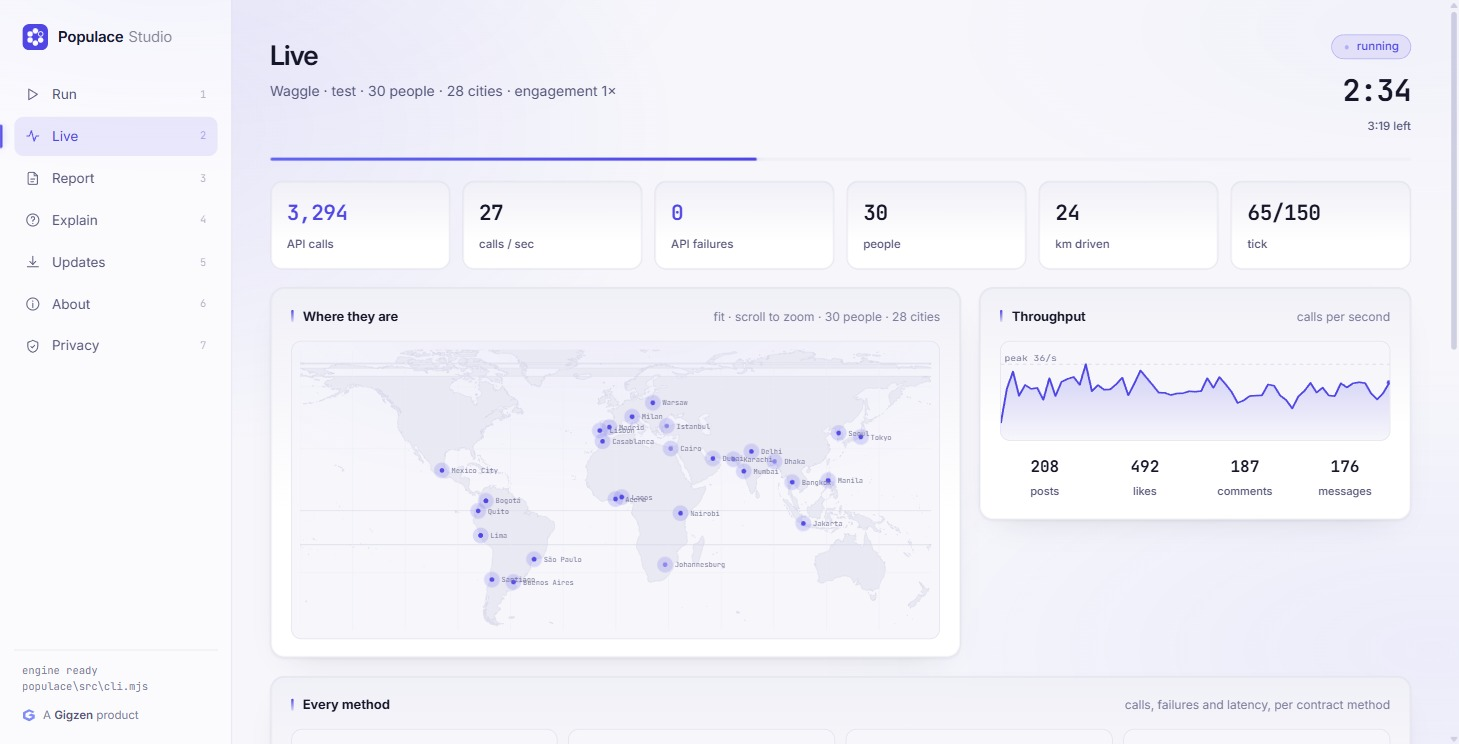
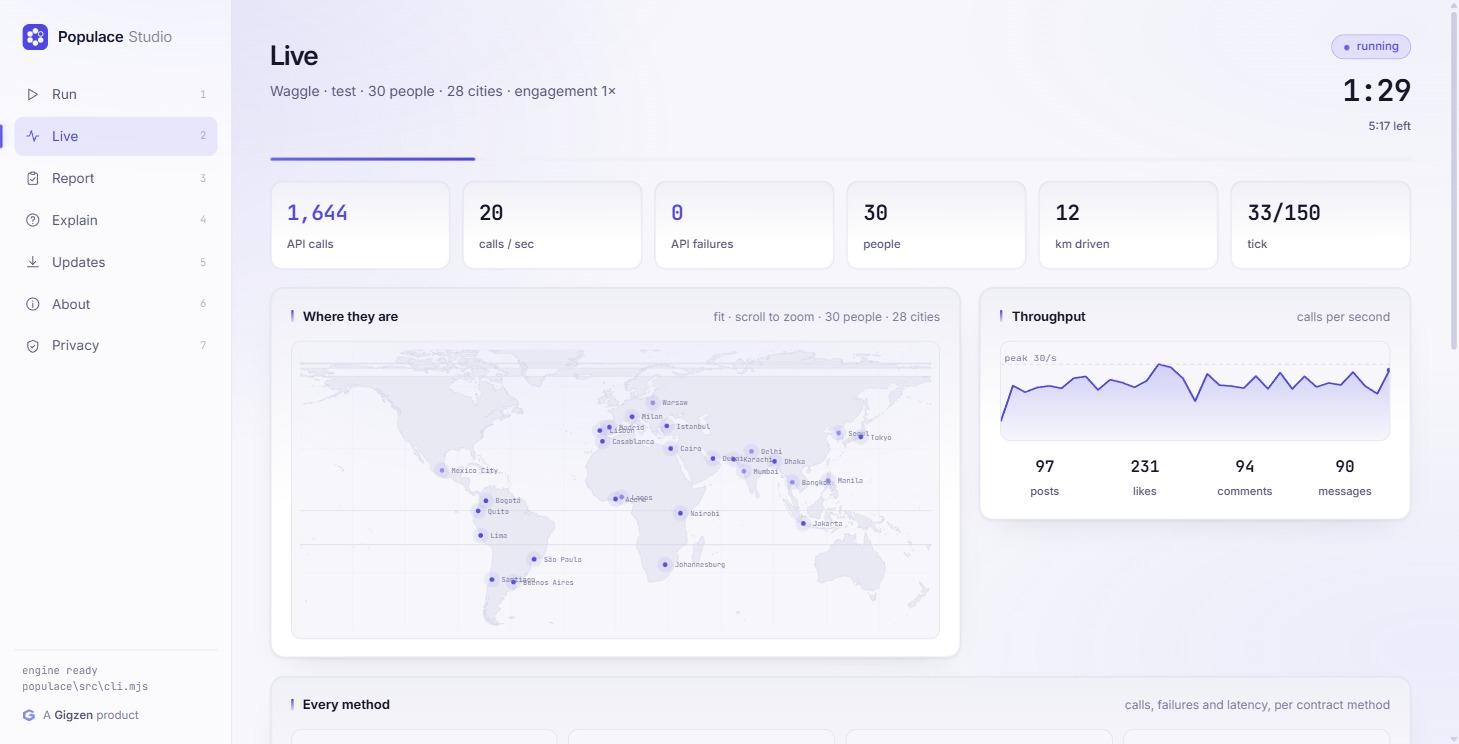
Report gets a clipboard, and the screenshots are taken again
The Report tab icon was a page with a folded corner, drawn to read at 64px
and used at 18px, where the fold and the clipped corner collapse into a
curl — it was being read as a scroll. It also said the wrong thing: a page
means a file exists, where that screen says whether the run was clean. It
is a clipboard with a tick now, checked at the size it is actually used
rather than in isolation.

That change is inside the binary, so the installers were rebuilt and both
SHA-256 sums here are new. The pair published earlier today are dead —
do not ship them.

It also invalidated both screenshots, which show the rail. Taken again
from one real run: thirty drivers across twenty-eight cities, 7,861 calls,
no failures, 13/13 coverage, thirty of thirty removed. The captions carry
this run's numbers, read off the pictures rather than off the script,
because the counters move between the read and the shutter.

The cities came from the Run screen's own Cities field, which exists for
exactly this, rather than by editing a config that is not mine to edit.

Still not for publishing until studio-v1.0.14 exists: the download buttons
point at releases/latest, so this page shipped early would claim 1.0.14
while handing people 1.0.13 under checksums that do not match.

diff --git a/docs/index.html b/docs/index.html
@@ -1216,7 +1216,7 @@ main,footer{position:relative; z-index:1}
              worked. -->
         <img class="shot" src="studio-live.jpg" width="1459" height="744" loading="lazy"
              alt="Populace Studio mid-run: thirty simulated drivers pinned across twenty-eight cities on a
-                  world map from Lima to Manila, 3,294 API calls at 27 a second with no failures, and
+                  world map from Lima to Manila, 1,644 API calls at 20 a second with no failures, and
                   counts of the posts, likes, comments and messages they have made.">
         <p style="font-size:13.5px; color:var(--muted); margin-top:10px; text-align:center">
           Thirty drivers across twenty-eight cities, driving Waggle through its own API.
@@ -1232,7 +1232,7 @@ main,footer{position:relative; z-index:1}
              and stays there: it is the only mention of it on this page. -->
         <img class="shot" src="studio-verdict.jpg" width="1459" height="744" loading="lazy"
              style="margin-top:22px"
-             alt="Populace Studio showing a finished run: a clean verdict over 7,671 API calls with no
+             alt="Populace Studio showing a finished run: a clean verdict over 7,861 API calls with no
                   failures, thirty of thirty accounts removed afterwards, and latency for every method
                   with its median and 95th percentile.">
         <p style="font-size:13.5px; color:var(--muted); margin-top:10px; text-align:center">
@@ -1261,8 +1261,8 @@ main,footer{position:relative; z-index:1}
         <pre style="margin:0 0 10px"><span class="cm"># PowerShell</span>
 Get-FileHash .\PopulaceStudio-Setup-x64.exe</pre>
         <p style="font-size:13.5px; font-family:var(--mono); color:var(--muted); word-break:break-all">
-          Setup <b style="color:var(--ink)">e126a3f7a2a25b560cb08fc73f708ede6d607630c52fbb958579c89ff1257073</b><br>
-          Portable <b style="color:var(--ink)">1a6cb43fe4a506f06f37974eb6cdaf990994057550d06e25590a87342b07f37c</b>
+          Setup <b style="color:var(--ink)">720546557ef23d32466b6872c741359064e7e51bc86b1278f60d0260c8e8c2b1</b><br>
+          Portable <b style="color:var(--ink)">51e5f0d6d93cc2afb796513ed6e0818f9ba78b9cc5d4b9742129a1150bdc57a3</b>
         </p>
       </div>
     </div>

diff --git a/studio/renderer/index.html b/studio/renderer/index.html
@@ -25,7 +25,7 @@
 
   <button class="tab is-on" data-screen="run"     type="button"><svg viewBox="0 0 24 24" aria-hidden="true"><path d="M6 4l13 8-13 8V4z"/></svg>Run<span class="k">1</span></button>
   <button class="tab"       data-screen="live"    type="button"><svg viewBox="0 0 24 24" aria-hidden="true"><path d="M3 12h4l3-8 4 16 3-8h4"/></svg>Live<span class="k">2</span></button>
-  <button class="tab"       data-screen="report"  type="button"><svg viewBox="0 0 24 24" aria-hidden="true"><path d="M14 3H7a2 2 0 0 0-2 2v14a2 2 0 0 0 2 2h10a2 2 0 0 0 2-2V8z"/><path d="M14 3v5h5"/><path d="M9 13h6M9 17h4"/></svg>Report<span class="k">3</span></button>
+  <button class="tab"       data-screen="report"  type="button"><svg viewBox="0 0 24 24" aria-hidden="true"><path d="M9 4H7a2 2 0 0 0-2 2v13a2 2 0 0 0 2 2h10a2 2 0 0 0 2-2V6a2 2 0 0 0-2-2h-2"/><rect x="9" y="2.5" width="6" height="3.5" rx="1.2"/><path d="M8.8 13.4l2.2 2.2 4.2-4.6"/></svg>Report<span class="k">3</span></button>
   <button class="tab"       data-screen="explain" type="button"><svg viewBox="0 0 24 24" aria-hidden="true"><circle cx="12" cy="12" r="9"/><path d="M9.5 9.5a2.6 2.6 0 1 1 3.4 2.5c-.6.2-.9.8-.9 1.4v.4"/><path d="M12 17.2v.1"/></svg>Explain<span class="k">4</span></button>
   <button class="tab"       data-screen="updates" type="button"><svg viewBox="0 0 24 24" aria-hidden="true"><path d="M12 3v12"/><path d="M7.5 10.5L12 15l4.5-4.5"/><path d="M4 18.5h16"/></svg>Updates<span class="k">5</span></button>
   <button class="tab"       data-screen="about"   type="button"><svg viewBox="0 0 24 24" aria-hidden="true"><circle cx="12" cy="12" r="9"/><path d="M12 11v6"/><path d="M12 7.6v.1"/></svg>About<span class="k">6</span></button>

diff --git a/CHANGELOG.md b/CHANGELOG.md
@@ -57,6 +57,11 @@ and risk getting them wrong, the gap is left visible.
   respect `prefers-reduced-motion`, and small text that is no longer shouted in
   capitals.
 
+- The Report tab icon is a clipboard with a tick. It was a page with a folded
+  corner, drawn for 64px and used at 18px, where the fold and the clipped corner
+  collapse into a curl — it was read as a scroll. It also said "a file exists"
+  where the screen it marks says whether the run was clean.
+
 ## engine 1.3.1 — 29 August 2026
 
 ### Fixed
